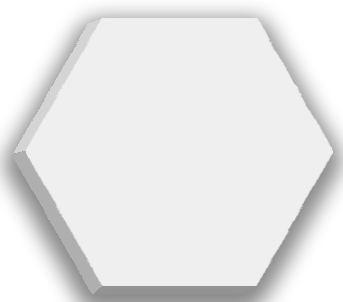
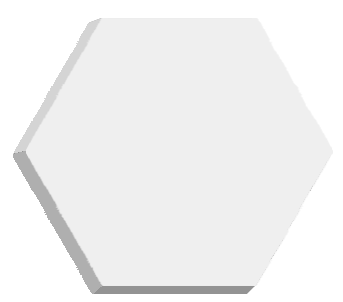
.

Changed region(s): [[0.0, 0.0298, 1.0, 1.0]]

diff --git a/siap-mas-react/src/dashboard/Dashboard.js b/siap-mas-react/src/dashboard/Dashboard.js
@@ -1,19 +1,18 @@
 import React from 'react';
-import Polygon from '../assets/Base_Icon.png';
 import { motion } from "framer-motion";
 import './index.css';
+import Poly from "../assets/Base_Icon.png";
 function Dash () {
 return(
-    
-    <div>
-        <img src={Polygon} 
-            className="img"
-            
-        />
-    </div>    
-        
-            
-        
+<div>
+    <div style={{ marginTop:"10%"}}>
+        <div className="Polygon-Warp">
+            <div className="Polygon">
+
+            </div>
+        </div>
+    </div>  
+</div>
 )
 }
 

diff --git a/siap-mas-react/src/dashboard/index.css b/siap-mas-react/src/dashboard/index.css
@@ -3,10 +3,19 @@
     background-size: cover;
     overflow: hidden;
 
-    
+
 }
 
-.img{
-    margin-right: 40%;
+.Polygon-Warp {
+    filter: drop-shadow(-6px 10px 10px rgb(142, 141, 141));
 }
 
+.Polygon {
+    clip-path: polygon(30% 0%, 75% 0%, 96% 50%, 75% 100%, 30% 100%, 8% 50%);
+    background-color: #eeeeee;
+    background-position: center;
+    margin-left: 100px;
+    display: flex;
+    width: 350px;
+    height: 266px;
+}
